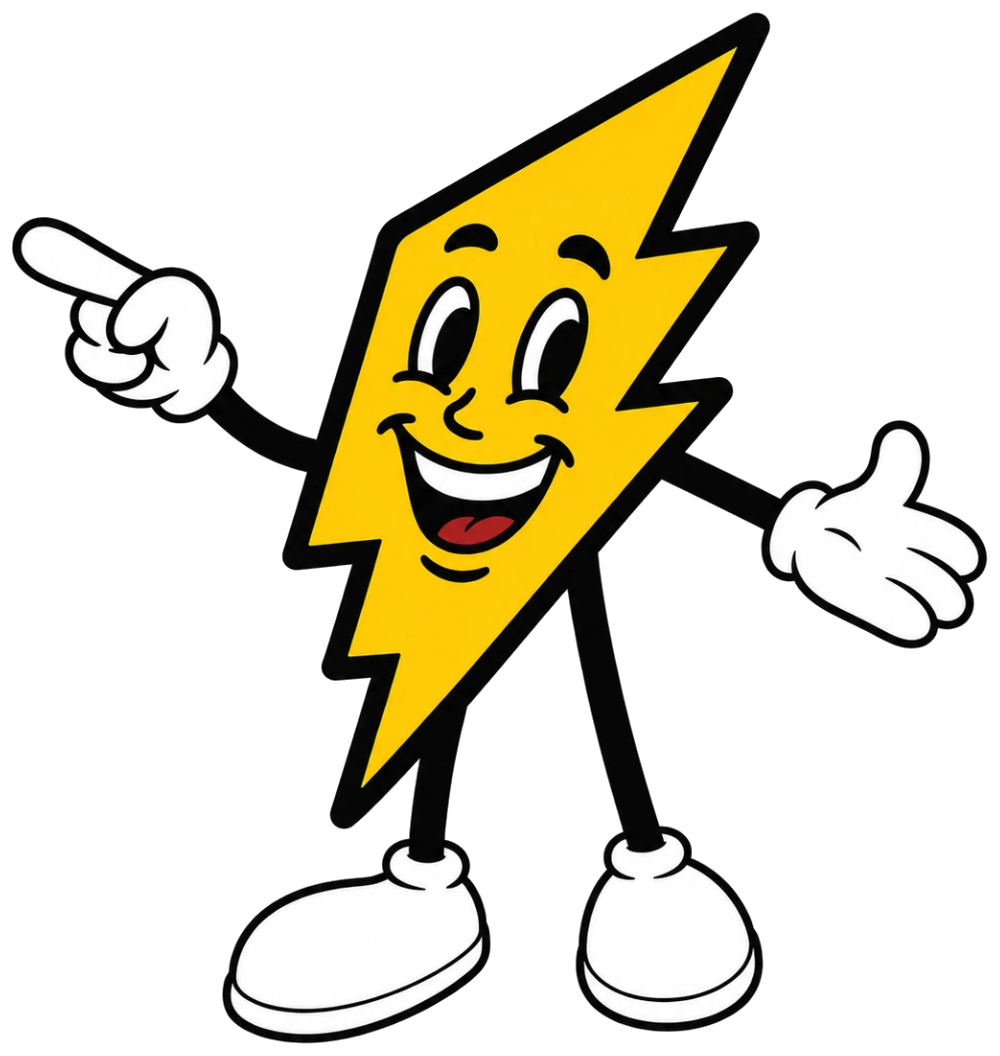
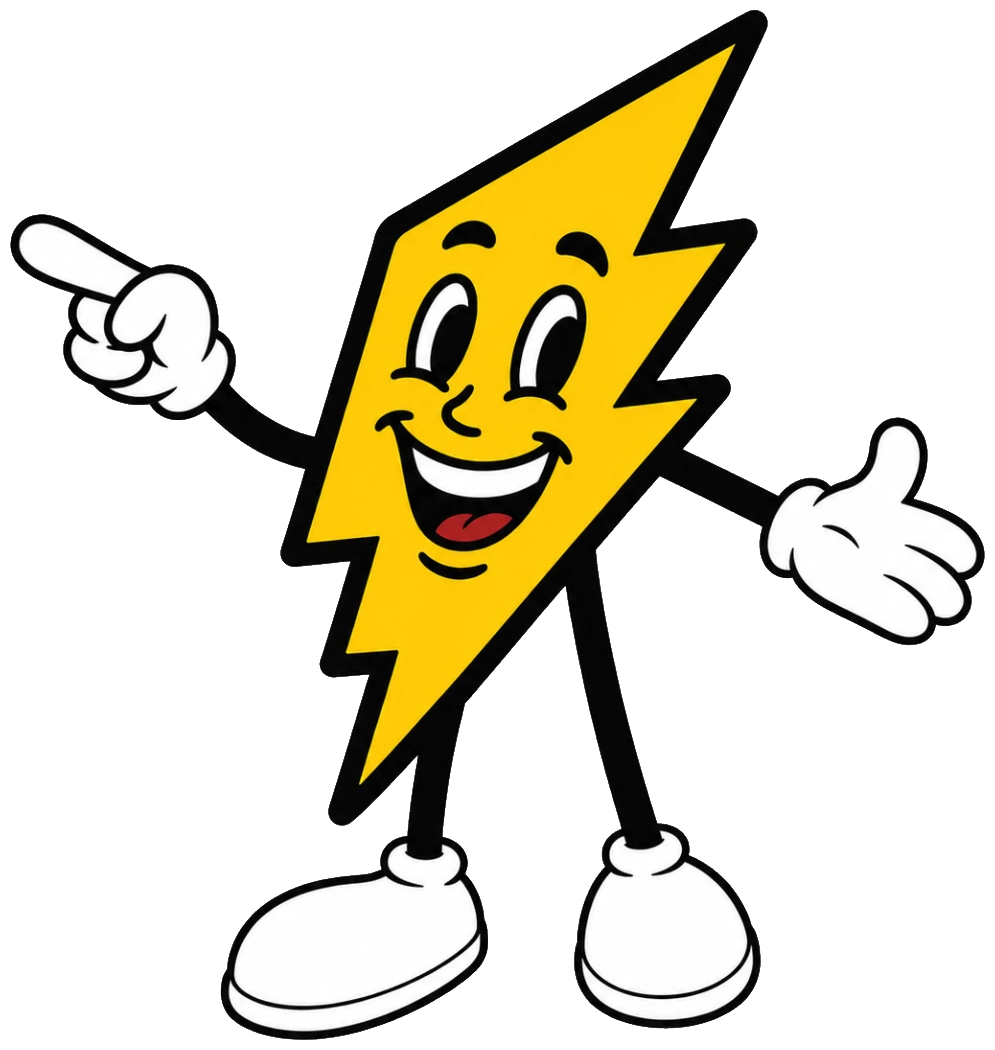
Cut Bolt out fully; cache-bust the artwork URL
The first background pass only cleared an outer ring — AI-art noise walled
off the flood fill, and the crop then hugged the leftover opaque white,
reading as a white box. Re-ran with a chroma-aware barrier (only dark
outlines and colored pixels block the fill) plus an edge-halo fade: 67% of
pixels now transparent, with glove/shoe/teeth interiors preserved. Bumped
the img URL to /bolt.png?v=2 since PNGs are served with a day-long cache —
without it browsers keep showing the original opaque version.

diff --git a/public/app.js b/public/app.js
@@ -691,7 +691,8 @@ const BOLT_SVG = `<svg viewBox="0 0 120 130" aria-hidden="true">
   <path d="M71.5 45.5 q1.6 0 2.2 1.6" stroke="#000" stroke-width="1.6" fill="none" stroke-linecap="round"/>
 </svg>`;
 function boltMarkup() {
-  return `<img class="bolt-img" src="/bolt.png" alt="Bolt"
+  // ?v= busts the day-long image cache whenever the artwork file changes
+  return `<img class="bolt-img" src="/bolt.png?v=2" alt="Bolt"
     onerror="this.parentElement.classList.add('svgfallback'); this.remove()">${BOLT_SVG}`;
 }
 // static icons: the Ask Bolt pill + panel header